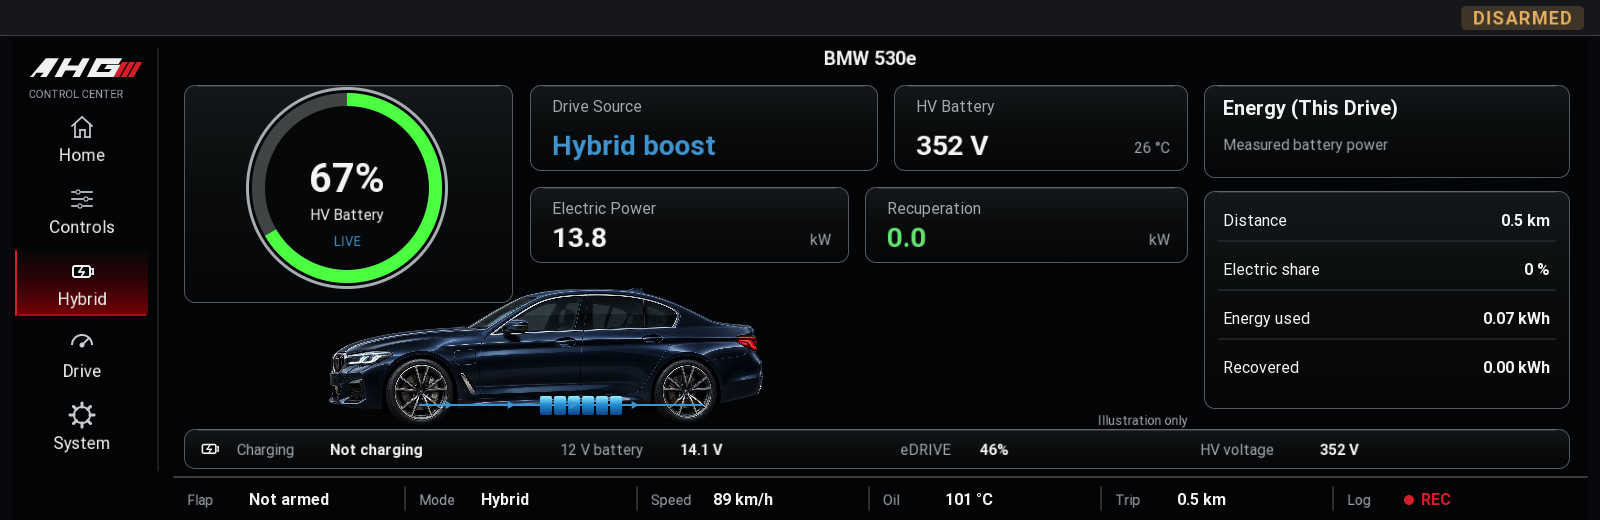
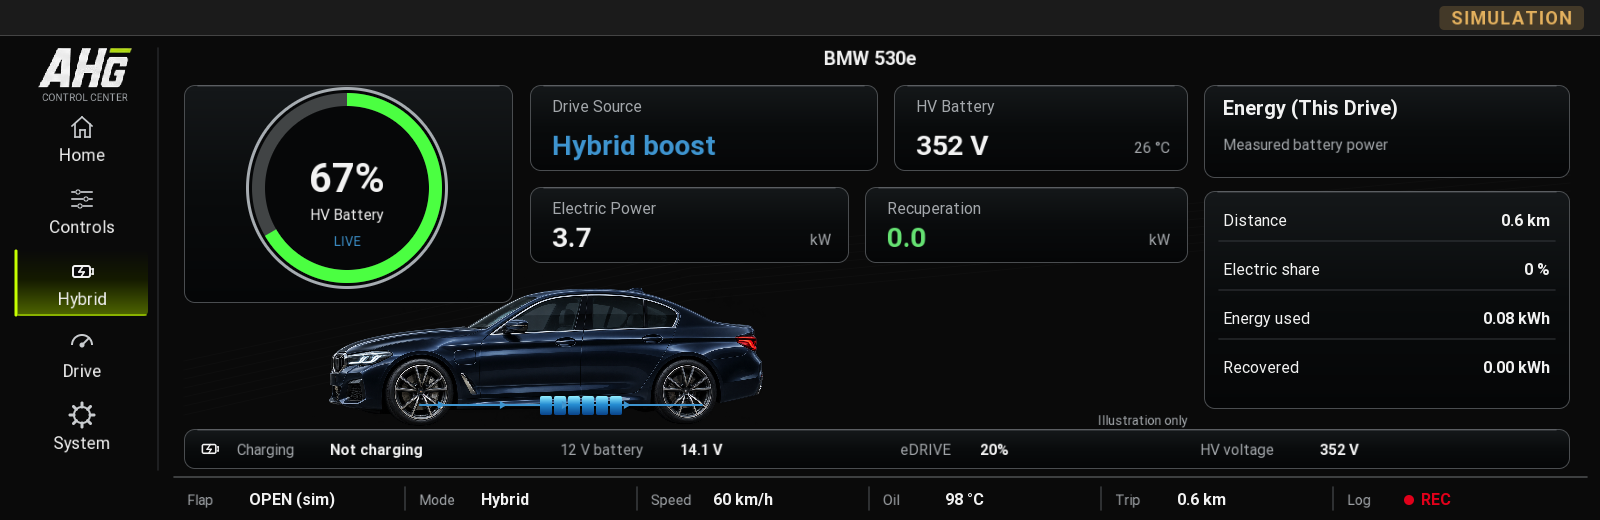
After Hours Garage branding and accent colour setting
- Primary logo (Home), AHG monogram (side menu, app icon) cut from the owner's identity package
- Brand palette (matte black, off white, neon lime) with an Accent colour setting:
  Neon Lime, Sport Red, Ice Blue, Night Amber, Violet, Off White; kit top bar follows it
- Meaning colours (hot zones, ARMED, REC) stay fixed
- Fix: HV charge and 12 V keep their own freshness window between slower reads
- Tests: 45 passing

Claude-Session: https://claude.ai/code/session_01Nnadr2wnsB46edB4HiEaQo

diff --git a/apps/ahg_control_center/theme.js b/apps/ahg_control_center/theme.js
@@ -1,11 +1,25 @@
 'use strict';
-const C={bg:'#030405',panel:'#101214',edge:'#55595d',text:'#f3f4f5',muted:'#a3a7ab',red:'#d51e28',blue:'#3e94cf',green:'#65e172',amber:'#e4b15e'};
+// After Hours Garage palette: matte black #0A0A0A, off white #F2F2F2, dark grey #1A1A1A, steel grey #5A5A5A.
+// red / amber / green stay fixed for meaning (hot, warning, ok); the accent follows the "accent" setting.
+const C={bg:'#0a0a0a',panel:'#1a1a1a',edge:'#4a4d50',text:'#f2f2f2',muted:'#a3a7ab',red:'#e1001a',blue:'#3e94cf',green:'#65e172',amber:'#e4b15e',
+    accent:'#c6ff00',onAccent:'#0a0a0a',accentDeep:'#4f6600',accentDark:'#141a00'};
+// c = the accent, on = text on a filled accent, deep / dark = the gradient behind a selected item
+const ACCENTS={
+    lime:{name:'Neon Lime (brand)',c:'#c6ff00',on:'#0a0a0a',deep:'#4f6600',dark:'#141a00'},
+    red:{name:'Sport Red',c:'#e1001a',on:'#ffffff',deep:'#740006',dark:'#2b0306'},
+    blue:{name:'Ice Blue',c:'#3d9bff',on:'#ffffff',deep:'#0d3a7a',dark:'#06152b'},
+    amber:{name:'Night Amber',c:'#ffa000',on:'#0a0a0a',deep:'#6b3e00',dark:'#241500'},
+    violet:{name:'Violet',c:'#a77bff',on:'#ffffff',deep:'#3d2470',dark:'#160d29'},
+    white:{name:'Off White',c:'#f2f2f2',on:'#0a0a0a',deep:'#4a4a4a',dark:'#1a1a1a'}};
+function setAccent(id){const a=ACCENTS[id]||ACCENTS.lime;C.accent=a.c;C.onAccent=a.on;C.accentDeep=a.deep;C.accentDark=a.dark;return a;}
+/** The kit's top bar in the same accent (its M Red theme with the accent swapped in). */
+function kitTheme(base){const t=Object.assign({},base);t.accent=t.sel=t.ok=t.bar=t.marker=C.accent;t.selText=C.onAccent;t.glow=C.accent+'55';t.stripes=[C.accent];t.bg=C.bg;return t;}
 function text(cv,value,x,y,size,color,align) {cv.text(String(value),x,y,size,color||C.text,{font:'label',align:align||'left',literal:true});}
 function bold(cv,value,x,y,size,color,align) {cv.text(String(value),x,y,size,color||C.text,{font:'bold',align:align||'left',literal:true});}
 function card(cv,x,y,w,h) {cv.roundRect(x,y,w,h,11,C.edge);cv.card(x+1,y+1,w-2,h-2,10,[[0,'#141719'],[0.5,'#090b0c'],[1,'#050607']]);cv.line(x+14,y+1,x+w-14,y+1,1,'#b3b8bd55');}
 function button(cv,label,x,y,w,h,action,key,selected,disabled) {
     card(cv,x,y,w,h);
-    if(selected){cv.card(x+1,y+1,w-2,h-2,9,[[0,'#582129'],[1,'#23090d']]);cv.line(x+10,y+h-2,x+w-10,y+h-2,2,C.red);}
+    if(selected){cv.card(x+1,y+1,w-2,h-2,9,[[0,C.accentDeep],[1,C.accentDark]]);cv.line(x+10,y+h-2,x+w-10,y+h-2,2,C.accent);}
     bold(cv,label,x+w/2,y+h/2+7,18,disabled?'#6f7680':C.text,'center');
     if(action && !disabled)cv.target(x,y,w,h,action,key,10);
 }
@@ -17,12 +31,4 @@ function lineIcon(cv,id,x,y,size,color) {
     else if(id==='hybrid'){cv.roundRect(x+2*s,y+6*s,19*s,13*s,3*s,c);cv.roundRect(x+4*s,y+8*s,15*s,9*s,1*s,C.bg);line([[22,10],[23,10],[23,15],[22,15]]);line([[13,7],[9,13],[14,13],[11,18]]);}
     else {cv.arc(x+12*s,y+12*s,7*s,9*s,0,360,c);for(let i=0;i<8;i++){const a=i*Math.PI/4;cv.line(x+(12+8*Math.cos(a))*s,y+(12+8*Math.sin(a))*s,x+(12+12*Math.cos(a))*s,y+(12+12*Math.sin(a))*s,3*s,c);}cv.circle(x+12*s,y+12*s,3*s,C.bg);}
 }
-function wordmark(cv,x,y,scale) {
-    const s=scale||0.72;
-    const letters=[[[0,26],[22,0],[40,0],[23,26],[14,26],[19,20],[9,20],[5,26],[0,26]],
-        [[34,26],[48,0],[58,0],[52,10],[67,10],[73,0],[83,0],[69,26],[59,26],[64,17],[49,17],[44,26]],
-        [[79,26],[92,0],[128,0],[123,8],[99,8],[92,19],[110,19],[113,15],[103,15],[107,9],[126,9],[117,26]]];
-    letters.forEach((points)=>cv.fill(points.map((p)=>[x+p[0]*s,y+(p[1]-26)*s]),'#eff0f1'));
-    for(let i=0;i<3;i++)cv.fill([[x+(128+i*10)*s,y-21*s],[x+(136+i*10)*s,y-21*s],[x+(124+i*10)*s,y],[x+(116+i*10)*s,y]],C.red);
-}
-module.exports={C,text,bold,card,button,lineIcon,wordmark};
+module.exports={C,ACCENTS,setAccent,kitTheme,text,bold,card,button,lineIcon};

diff --git a/apps/ahg_control_center/reference-view.js b/apps/ahg_control_center/reference-view.js
@@ -1,6 +1,6 @@
 'use strict';
 const T=require('./theme'),M=require('./model'),Art=require('./art');
-const {C,text,bold,card,button,lineIcon,wordmark}=T;
+const {C,text,bold,card,button,lineIcon}=T;
 const PAGES=['Home','Controls','Hybrid','Drive','System'];
 function field(a,k,d){return M.format(a.store.get(k),d);}
 function withUnit(a,k,d,unit){const v=field(a,k,d);return v==='--'?v:v+' '+unit;}
@@ -20,11 +20,12 @@ function logState(a){return a.driveLog?a.driveLog.status():{state:'off',text:'Lo
 function header(cv,a){
     cv.fillRect(12,38,1576,482,C.bg);
     for(let i=0;i<7;i++)cv.polyline([[184,415-i*9],[690,300-i*8],[1570,215-i*8]],1,'#ffffff05');
-    wordmark(cv,30,77,0.72);text(cv,'CONTROL CENTER',29,98,11,C.muted);
+    Art.draw(cv,'mark',37,47,96,41); // AHG monogram (art/ahg-mark.png); the full logo is on Home
+    text(cv,'CONTROL CENTER',85,101,10,C.muted,'center');
     cv.line(158,48,158,470,1,'#333538');
     PAGES.forEach((label,i)=>{
         const y=114+i*72,on=i===a.page,col=on?C.text:'#c9cccf';
-        if(on){cv.card(16,y-8,132,66,5,[[0,'#070708'],[0.45,'#2b0306'],[1,'#740006']]);cv.line(16,y-7,16,y+57,2,C.red);cv.line(18,y+57,146,y+57,1,C.red);}
+        if(on){cv.card(16,y-8,132,66,5,[[0,'#0a0a0a'],[0.45,C.accentDark],[1,C.accentDeep]]);cv.line(16,y-7,16,y+57,3,C.accent);cv.line(18,y+57,146,y+57,1,C.accent);}
         if(label==='Drive'){cv.arc(82,y+15,9,11,-90,90,col);cv.line(82,y+15,89,y+8,2,col);cv.circle(82,y+15,2.5,col);}
         else icon(cv,label.toLowerCase(),70,y+1,24,col);
         text(cv,label,82,y+47,17,C.text,'center');
@@ -56,17 +57,17 @@ function home(cv,a,dt){
         if(key==='rpm')s.label='Engine';if(key==='speed')s.label='Speed';
         a.gauges.draw(cv,slot+'-'+key,s,a.store.get(key),p[i][0],p[i][1],p[i][2],dt);
     });
-    wordmark(cv,716,431,1.8);text(cv,'AFTER HOURS GARAGE',858,453,15,C.text,'center');
+    Art.draw(cv,'logo',712,396,296,74); // primary logo, between the small gauges
 }
 // Segmented control: one rounded track, the chosen segment filled in AHG red.
 function segmented(cv,items,x,y,w,h){
     cv.roundRect(x,y,w,h,12,'#3b3f44');cv.roundRect(x+1,y+1,w-2,h-2,11,'#0b0d0f');
     const sw=(w-8)/items.length;
     items.forEach((it,i)=>{const sx=x+4+i*sw;
-        if(it.selected){cv.card(sx,y+4,sw,h-8,9,[[0,'#b3141f'],[1,'#5c070d']]);cv.line(sx+14,y+5,sx+sw-14,y+5,1,'#ff8a8a66');}
-        else if(it.pending){cv.roundRect(sx,y+4,sw,h-8,9,'#5c070d');cv.roundRect(sx+2,y+6,sw-4,h-12,8,'#0b0d0f');}
+        if(it.selected){cv.card(sx,y+4,sw,h-8,9,[[0,C.accent],[1,C.accent]]);cv.line(sx+14,y+5,sx+sw-14,y+5,1,'#ffffff55');}
+        else if(it.pending){cv.roundRect(sx,y+4,sw,h-8,9,C.accentDeep);cv.roundRect(sx+2,y+6,sw-4,h-12,8,'#0b0d0f');}
         else if(i>0&&!items[i-1].selected)cv.line(sx,y+14,sx,y+h-14,1,'#2e3236');
-        bold(cv,it.label,sx+sw/2,y+h/2+7,19,it.selected?C.text:'#c9cdd1','center');
+        bold(cv,it.label,sx+sw/2,y+h/2+7,19,it.selected?C.onAccent:'#c9cdd1','center');
         cv.target(sx,y+4,sw,h-8,it.action,it.key,9);});
 }
 function chip(cv,label,x,y,color){
@@ -75,7 +76,7 @@ function chip(cv,label,x,y,color){
     cv.circle(x+14,y+13,4,color);bold(cv,label,x+24,y+18,13,color);return w;
 }
 function toggle(cv,x,y,on,enabled){
-    cv.roundRect(x,y,76,31,15,!enabled?'#1a1b1d':on?'#ae101b':'#292b2d');cv.circle(on?x+60:x+16,y+15,12,enabled?C.text:'#55595d');
+    cv.roundRect(x,y,76,31,15,!enabled?'#1a1b1d':on?C.accent:'#292b2d');cv.circle(on?x+60:x+16,y+15,12,!enabled?'#55595d':on?C.onAccent:C.text);
 }
 // Exhaust smoke from a tailpipe of the hero photo: puffs that billow out, rise, grow and fade.
 // A function of time only, so every frame moves it on. amt 0..1. Stays inside the hero card.

diff --git a/apps/ahg_control_center/main.js b/apps/ahg_control_center/main.js
@@ -6,6 +6,7 @@ const {Controls}=require('./controls'),{Diagnostics}=require('./diagnostics');
 const {listSheet}=require('./kit/sheet');
 const IDS=['home','controls','hybrid','drive','system'];
 const {HybridReader}=require('./hybrid');
+const KIT_RED=require('./kit/themes').THEMES.m_red;
 const {Trip}=require('./trip');
 const {normalize}=require('./settings');
 const {DriveLog}=require('./drivelog');
@@ -14,7 +15,6 @@ function start(ctx) {
     const app={ctx:ctx,store:new M.SignalStore(),gauges:new Gauge(),diagnostics:new Diagnostics(ctx.dataDir,ctx.spec&&ctx.spec.version),logOffset:0,
         page:Math.max(0,IDS.indexOf(ctx.settings.get('page'))),provider:null,systemMode:'overview',signalOffset:0,
         emulator:process.env.AHG_EMULATOR==='1',demo:false,trip:new Trip(),elapsed:0,toast:null,toastUntil:0};
-    app.accent=()=>({comfort:T.C.blue,sport:T.C.red,night:'#bd8ddb',custom:'#dfb161'})[ctx.settings.get('profile')]||T.C.red;
     app.notice=(s)=>{app.toast=s;app.toastUntil=Date.now()+3500;app.diagnostics.log(s);};
     app.ioCtx=Object.assign({},ctx,{log:app.diagnostics.logger(ctx.log)});
     app.controls=new Controls(app.ioCtx,app.store,{emulator:app.emulator,demo:()=>app.demo});
@@ -64,8 +64,8 @@ function start(ctx) {
     let previous=Date.now();
     const loop=ctx.loop('MAIN',4,async()=>{
         const now=Date.now(),dt=M.clamp((now-previous)/1000,0,0.5);previous=now;app.elapsed=(now-app.diagnostics.started)/1000;
-        const cv=ctx.canvas(1600,520);cv.clear('#07090c');
-        G.frame(cv,ctx.theme(),[],-1,[{text:app.controls.simulated?'SIMULATION':app.controls.armed?'ARMED':'DISARMED',color:app.controls.armed?T.C.red:T.C.amber}]);
+        T.setAccent(ctx.settings.get('accent'));const cv=ctx.canvas(1600,520);cv.clear(T.C.bg);
+        G.frame(cv,T.kitTheme(KIT_RED),[],-1,[{text:app.controls.simulated?'SIMULATION':app.controls.armed?'ARMED':'DISARMED',color:app.controls.armed?T.C.red:T.C.amber}]);
         V.draw(cv,app,dt);await ctx.ui.image('MAIN_GFX',cv);
     });
     const stop=async()=>{if(app.hybrid)app.hybrid.stop();clearInterval(logTimer);clearInterval(tripTimer);app.driveLog.stop();app.provider.stop();loop.stop();app.gauges.clear();await app.controls.stop();};

diff --git a/apps/ahg_control_center/model.js b/apps/ahg_control_center/model.js
@@ -3,10 +3,10 @@ const DEFINITIONS = {
     boost: {label:'Boost',unit:'bar',min:0,max:2,major:0.5,minor:0.1,decimals:2,hot:1.5},
     oil: {label:'Oil temperature',unit:'°C',min:50,max:150,major:20,minor:5,decimals:0,hot:125},
     coolant: {label:'Coolant',unit:'°C',min:50,max:130,major:20,minor:5,decimals:0,hot:110},
-    voltage: {label:'12 V system',unit:'V',min:10,max:16,major:1,minor:0.2,decimals:1,hot:15},
+    voltage: {label:'12 V system',unit:'V',min:10,max:16,major:1,minor:0.2,decimals:1,hot:15,staleMs:15000},
     rpm: {label:'Engine speed',unit:'rpm',min:0,max:8000,major:2000,minor:200,decimals:0,hot:6500},
     speed: {label:'Speed',unit:'km/h',min:0,max:240,major:40,minor:10,decimals:0,hot:200},
-    hv_soc:{label:'HV battery',unit:'%',min:0,max:100,decimals:0},
+    hv_soc:{label:'HV battery',unit:'%',min:0,max:100,decimals:0,staleMs:25000},
     ev_range:{label:'EV range',unit:'km',decimals:0}, electric_kw:{label:'Electric power',unit:'kW',decimals:1},
     regen_kw:{label:'Recuperation',unit:'kW',decimals:1}, fuel:{label:'Trip consumption',unit:'L/100 km',decimals:1},
     energy_used:{label:'Trip energy',unit:'kWh',decimals:1}, regen_energy:{label:'Recovered energy',unit:'kWh',decimals:1},
@@ -34,7 +34,9 @@ class SignalStore {
         const r=this.values[key];
         if(!r) return {key:key,value:null,unit:(DEFINITIONS[key]||{}).unit || '',timestampMs:null,source:null,quality:'unsupported',provenance:'No verified source'};
         const age=Math.max(0,this.now()-r.timestampMs);
-        return Object.assign({},r,{quality:r.quality==='live' && age>3000?'stale':r.quality,ageMs:age});
+        // slow reads (HV charge every 10 s, 12 V every 5 s) stay fresh for their own period
+        const limit=(DEFINITIONS[key]&&DEFINITIONS[key].staleMs)||3000;
+        return Object.assign({},r,{quality:r.quality==='live' && age>limit?'stale':r.quality,ageMs:age});
     }
     rows() { return Object.keys(DEFINITIONS).map((k)=>this.get(k)); }
 }

diff --git a/apps/ahg_control_center/gauge.js b/apps/ahg_control_center/gauge.js
@@ -45,7 +45,7 @@ class Gauge {
         const a=M.angle(value,spec.min,spec.max)*RAD,ux=Math.cos(a),uy=Math.sin(a),nx=-uy,ny=ux;
         function p(l,w){return [cx+ux*l+nx*w,cy+uy*l+ny*w];}
         const polygon=[p(r*0.79,0),p(r*0.08,r*0.027),p(-r*0.16,r*0.022),p(-r*0.18,0),p(-r*0.16,-r*0.022),p(r*0.08,-r*0.027)];
-        if(live){cv.fill(polygon.map((pt)=>[pt[0]+3,pt[1]+3]),'#000000aa');cv.fill(polygon,T.C.red);const tip=p(r*0.7,0),tail=p(-r*0.11,0);cv.line(tail[0],tail[1],tip[0],tip[1],1,'#ffb4b0');}
+        if(live){cv.fill(polygon.map((pt)=>[pt[0]+3,pt[1]+3]),'#000000aa');cv.fill(polygon,T.C.accent);const tip=p(r*0.7,0),tail=p(-r*0.11,0);cv.line(tail[0],tail[1],tip[0],tip[1],1,'#ffffff77');}
         else {const q=p(r*0.65,0);cv.line(cx,cy,q[0],q[1],2,'#333b45');}
         cv.circle(cx,cy,r*0.105,'#11151b');cv.arc(cx,cy,r*0.095,r*0.105,180,350,'#87909b');cv.circle(cx,cy,r*0.067,'#222831');
         T.bold(cv,spec.label,cx,cy+r*0.28,(r>140?20:18)*size,T.C.text,'center');

diff --git a/test/core.test.js b/test/core.test.js
@@ -54,3 +54,8 @@ test('invalid saved settings revert to schema defaults',()=>{
     const values={mode:'auto',hz:1000000};normalize({get:(k)=>values[k],set:(k,v)=>{values[k]=v;}},schema);
     assert.deepEqual(values,{mode:'off',hz:10});assert.equal(validated(schema[0],'on'),'on');
 });
+test('slow diagnostic reads keep their own freshness window',()=>{
+    let now=0;const store=new M.SignalStore(()=>now);store.put('hv_soc',60,'mgu');store.put('voltage',14,'mgu');store.put('rpm',900,'mgu');
+    now=12000;assert.equal(store.get('hv_soc').quality,'live');assert.equal(store.get('voltage').quality,'live');assert.equal(store.get('rpm').quality,'stale');
+    now=30000;assert.equal(store.get('hv_soc').quality,'stale');
+});

diff --git a/tools/compile-art.js b/tools/compile-art.js
@@ -5,7 +5,7 @@
 const fs=require('fs'),path=require('path'),zlib=require('zlib'),{PNG}=require('pngjs');
 const root=path.resolve(__dirname,'..'),output=path.join(root,'apps/ahg_control_center/assets');
 fs.mkdirSync(output,{recursive:true});
-const specs=[['dial','dial-face.png',512,512],['car','530e-cutout.png',960,320],['exhaust','exhaust-crop.png',820,213]];
+const specs=[['dial','dial-face.png',512,512],['car','530e-cutout.png',960,320],['exhaust','exhaust-crop.png',820,213],['logo','ahg-logo.png',385,97],['mark','ahg-mark.png',138,59]];
 for(const spec of specs){
     const name=spec[0],png=PNG.sync.read(fs.readFileSync(path.join(root,'art',spec[1]))),W=spec[2],H=spec[3];
     function sample(x,y){

diff --git a/docs/RELEASE_NOTES.md b/docs/RELEASE_NOTES.md
@@ -12,7 +12,10 @@ AHG Control Center 1.2.0 - drive logging and UI cleanup.
 - Flap command reviewed: byte-identical to upstream Engine Config (2F 60FD 03 03E8 open, 2F 60FD 03 2328 close, 2F 60FD 00 hand-back to DME 0x12), pinned by tests through the full Controller -> DiagLink path.
 - Real data from idrive7-apps: boost gauge from the sport display (passive), HV battery charge / voltage / current -> electric power and recuperation, and 12 V voltage via read-only diagnostic reads (kit/readonly-diag refuses anything but 0x22), HV temperature and eDRIVE needle (passive). Hybrid page is live again, next to Drive (5 pages). Home defaults: Boost, Oil, Coolant, RPM (saved choices reset once).
 - Smoke: Open now smokes from both tips.
-- 44 automated checks, including drive-log CSV/summary tests.
+- After Hours Garage branding from the owner's identity package: primary logo on Home, AHG monogram in the side menu and as the app icon, matte black / off white palette.
+- New Accent colour setting: Neon Lime (brand, default), Sport Red, Ice Blue, Night Amber, Violet, Off White. Meaning colours (hot zones, ARMED, REC) stay fixed.
+- HV charge / 12 V no longer flicker to stale between their slower reads.
+- 45 automated checks, including drive-log CSV/summary tests.
 
 AHG Control Center 1.1.1 fixes control status, diagnostic reconnect and live-signal freshness problems found after the first physical-car test.
 

diff --git a/docs/PROVENANCE.md b/docs/PROVENANCE.md
@@ -23,3 +23,8 @@ Engine Config controller.js, diaglink.js, adapters.js, real_adapters.js and auto
 ## 1.1.1 local patches
 
 The copied ec_diaglink.js now records bounded read outcomes and logs failures; VIN read payloads are omitted from the exported probe list. Diagnostic request bytes and adapter matching are unchanged. kit/runtime/signals.js now clears polling intervals and suppresses callbacks after shutdown. AHG enables the existing pollMs getter option for steady signal freshness and subscribes to the same passive FES driving-mode field used by Engine Config. Controls now watch late availability without replaying commands.
+
+
+## Branding
+
+`art/ahg-logo.png` and `art/ahg-mark.png` are cut out of the owner's After Hours Garage identity package (supplied by the owner, all rights reserved by After Hours Garage) and compiled to renderer cells by `tools/compile-art.js`. `art/exhaust-crop.png` is a crop of `art/exhaust-hero.png`.
